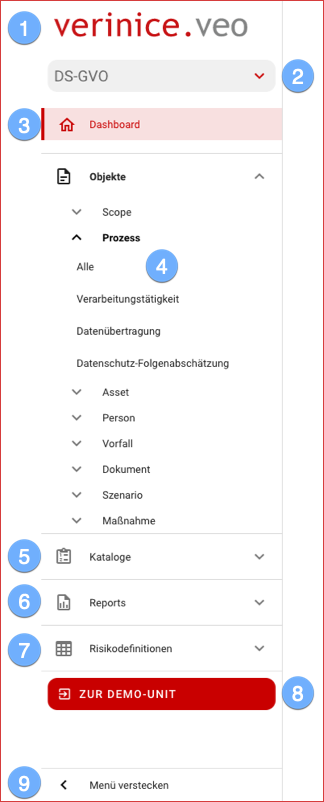
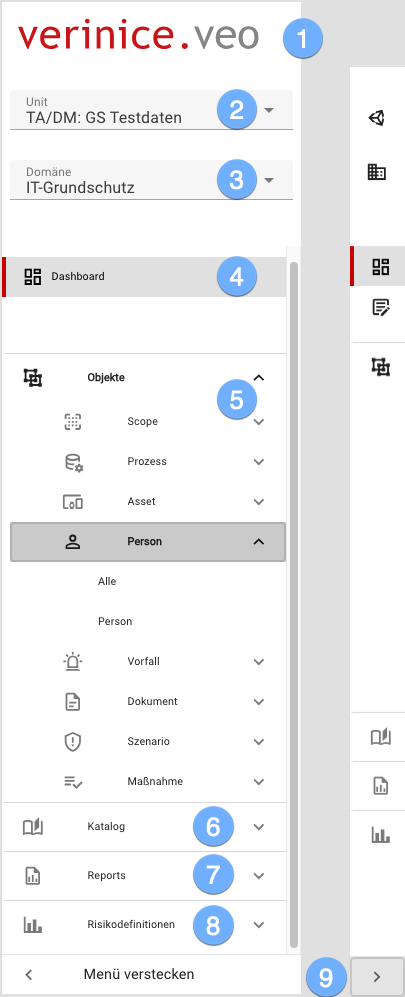
Integrate dashboard
verinice-veo#2967

diff --git a/manual/user-interface.md b/manual/user-interface.md
@@ -14,7 +14,7 @@ Die Anwendungsleiste stellt übergreifende Funktionen zur Bedienung bereit:
 
 ![Anwendungsleiste](/assets/manual/app-bar.de.png)
 
-1. Über das Logog gelangen Sie jederzeit in die [Unitauswahl](#unitauswahl)
+1. Über das Logo gelangen Sie jederzeit in die [Unitverwaltung](#unitverwaltung).
 1. Über die **Breadcrumb** navigieren Sie direkt zu allen aufgeführten Objekten.
 1. Wechseln Sie zwischen **Hell/Dunkel-Modus**.
 1. Mit dem **Sprachumschalter** wechseln Sie zwischen deutscher und englischer Sprache.
@@ -24,7 +24,7 @@ Die Anwendungsleiste stellt übergreifende Funktionen zur Bedienung bereit:
     - Benutzername und E-Mail des Angemeldeten werden angezeigt.
     - [Benutzerkonto bearbeiten](#benutzerkonto-bearbeiten) öffnet einen neuen Browser-Tab, in dem Sie z.B. das Passwort ändern oder eine 2-Faktor-Authentifizierung einrichten können.
     - Als **Hauptnutzer** können Sie weitere Benutzer verwalten, sofern dies in Ihrem Plan vorgesehen ist.
-    - In diesem Abschnitt können Sie die bei der ersten Anmeldung aufgerufene Seite **Erste Schritte** erneut aufrufen.
+    - In diesem Abschnitt können Sie die bei der ersten Anmeldung aufgerufene Seite [Erste Schritte](#erste-schritte) erneut aufrufen.
     - Im Abschnitt [Datenübertragung](#datenuebertragung) können Sie Ihre Daten herunterladen.
     - In unserer **Sicherheitsrichtlinie** beschreiben wir den Umgang mit Schwachstellen.
     - **Über verinice** öffnet einen Dialog mit tiefergehenden Informationen.
@@ -34,31 +34,43 @@ Die Anwendungsleiste stellt übergreifende Funktionen zur Bedienung bereit:
 
 Über das Menü navigieren Sie komfortabel durch verinice:
 
-
 ![Menü](/assets/manual/menu.de.png)
 
-1. Über das Logo gelangen Sie jederzeit auf die Startseite (momentan zum Dashboard der aktiven Unit).
-1. Wählen Sie aus den verfügbaren <DocsLink to="/domains">Domänen</DocsLink> die gewünschte aus. Initial steht die Domäne Datenschutz nach DS-GVO bereit, weitere Domänen werden sukzessive bereitgestellt.
-1. Auf dem <DocsLink to="/manual/dashboard">Dashboard</DocsLink> erhalten Sie einen Überblick über alle Objekte und deren Status (Lebenszyklus).
-1. Im Bereich <DocsLink to="/manual/objects">Objekte</DocsLink> navigieren Sie zu allen vorhandenen Objekttypen und Subtypen.
-1. In <DocsLink to="/manual/catalogues">Kataloge</DocsLink> stehen Ihnen Objekte wie z.B. TOM oder Datenschutzgefährdungen zur Verfügung.
-1. Wählen Sie eine der verfügbaren Reportvorlagen zum Ausdruck im Abschnitt <DocsLink to="/manual/reports">Reports</DocsLink>.1. Die Parameter für die Risikoanalyse werden im Abschnitt <DocsLink to="/manual/risk-definition">Risikodefinitionen</DocsLink> graphisch dargestellt.
-1. Die **Demo-Unit** stellt Beispieldaten zum Testen aller Funktionen bereit. Sie wird täglich zurückgesetzt und alle persönlichen Änderungen werden gelöscht. **Die Demo-Unit kann nicht für den produktiven Einsatz verwendet werden!**
-1. Um die Arbeitsfläche zu vergrößern, können Sie das **Menü verstecken** (auf Symbole verkleinern). Das Menü wird durch Mausklick auf die Symbole automatisch wieder eingeblendet.
+1. Über das Logo gelangen Sie jederzeit in die [Unitverwaltung](#unitverwaltung) um Units anzulegen oder zu bearbeiten. 
+1. Mit dem **Unit-Selector** wechseln Sie direkt in eine andere Unit.
+1. Mit dem **Domänen-Selector** wechseln Sie in eine andere Domäne.
+1. Das [Dashboard](#dashboard) bietet einen Überblick über alle Objekte und deren Status (Lebenszyklus) und ermöglicht Ihnen die Navigation zu allen Objekten.
+1. Optional navigieren Sie im Bereich **Objekte** zu allen vorhandenen Objekten.
+1. [Kataloge](#kataloge) stellen Ihnen Objekte wie z.B. TOM oder Elementare Gefährdungen zur Anwendung in Ihrer Unit zur Vefügung.
+1. [Reports](#reports) erstellen Sie mittels der **Reportvorlagen**.
+1. Im Abschnitt [Risikodefinitionen](#risikodefinitionen) wird die **Risikomatrix** graphisch dargestellt.
+1. Über **Menü verstecken** verkleinern Sie die Navigation auf Symbole, durch Mausklick auf eines der Symbole wird das Menü wieder eingeblendet.
 
 ## Arbeitsfläche {#arbeitsflaeche}
 
-Die Arbeitsfläche stellt je nach Kontext verschiedenste Inhalte dar:
+Die Arbeitsfläche stellt je nach Kontext unterschiedliche Inhalte dar:
 
-## Dashboard
+### Dashboard
 
-![Dashboard](/assets/manual/dashboard_thumb.de.png)
+Auf dem Dashboard werden alle Objekte und deren Status (Lebenszyklus) dargestellt, durch Mausklick navigieren Sie direkt zu den jeweiligen Objekten:
 
-## Objektübersicht
+![Dashboard](/assets/manual/dashboard.de.png)
+
+1. Die Objekte sind gruppiert nach den [Objekttypen](/object-model/objects/#objekte) (Scopes, Prozesse, Assets, Personen, Controls, Vorfälle, Dokumente und Szenarien).
+1. Die Objekttypen sind zudem nach den verfügbaren [Subtypen](/object-model/objects/#subtypen) gruppiert.
+1. Die **Status** (Lebenszyklus) sind farbig codiert:
+    - Dunkelgrau = Neu
+    - Gelb = In Bearbeitung
+    - Blau = Zur Prüfung
+    - Grün = Freigegeben
+    - Hellgrau = Archiviert
+1. Im Abschnitt **Meine zuletzt bearbeiteten Objekte** können Sie diese durch Mausklick direkt zur weiteren Bearbeitung aufrufen.
+
+### Objektübersicht
 
 ![Objektübersicht](/assets/manual/object-list_thumb.de.png)
 
-## Objektdetails
+### Objektdetails
 
 ![Objektdetails](/assets/manual/object-details_thumb.de.png)
 
@@ -77,8 +89,10 @@ Die Arbeitsfläche stellt je nach Kontext verschiedenste Inhalte dar:
 
 # Fehlende Seiten
 
-## Unitauswahl
-
 ## Benutzerkonto bearbeiten
 
 ## Datenübertragung {#datenuebertragung}
+
+## Unitverwaltung
+
+## Erste Schritte
